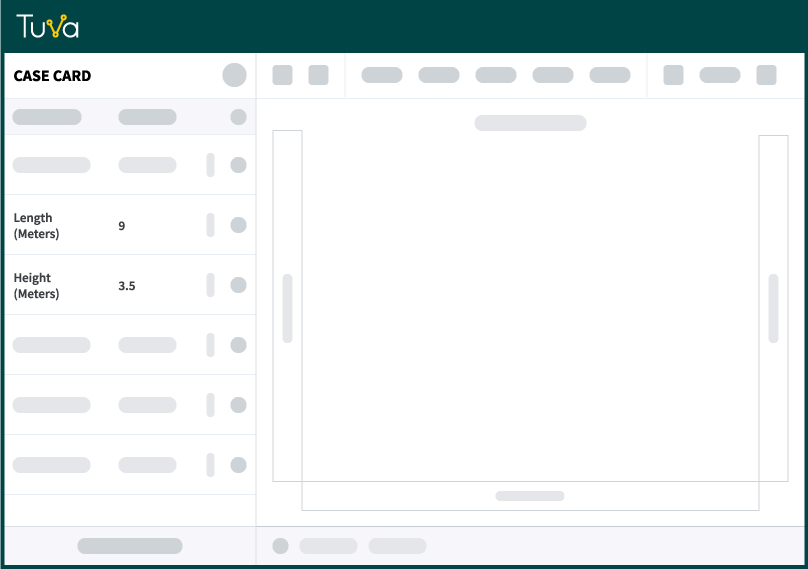
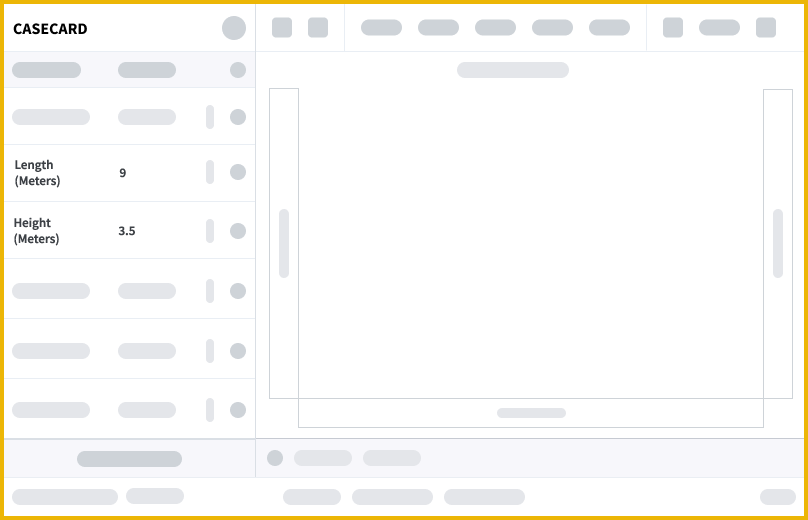
work in progress

diff --git a/landingPageAnimation/tuva-animate.js b/landingPageAnimation/tuva-animate.js
@@ -3,14 +3,17 @@ var animationIndex = 0; //used to keep track of the current animation step
 
 //background image variables
 var elem = document.getElementById("animation");
+var maxWidth = 808;
+var maxHeight = 520;
 var parentX = elem.offsetLeft;
 var parentY = elem.offsetTop;
-var parentWidth = elem.offsetWidth;
-var parentHeight = elem.offsetHeight;
+var parentWidth = maxWidth;//elem.offsetWidth;
+var parentHeight = maxHeight;//elem.offsetHeight;
+var heightToWidthRatio = maxHeight/maxWidth;
 
 //plot area variables
-var xAxisStart = 0.4*parentWidth; //bottom left corner of the plotting area
-var yAxisStart = 0.8*parentHeight; //bottom left corner of plotting area
+var xAxisStart = 325; //bottom left corner of the plotting area
+var yAxisStart = 365; //bottom left corner of plotting area
 var xAxisWidth = Math.round(parentWidth*0.5); //plot width as percentage of background image
 var yAxisHeight = Math.round(parentHeight*0.5);//plot height as percentage of background image
 var xAxisEnd = xAxisStart + xAxisWidth; //lower right corner of plotting area
@@ -39,40 +42,108 @@ function loadAnimation() {
 
   //creates the case images in a mixed up state
   for(var i = 0 ; i < datasetJSON.length ; i++){
-    myCases.push(new image(elem, i,
-      getRandomInt(xAxisWidth)+xAxisStart,
-      getRandomInt(yAxisHeight)+yAxisStart-yAxisHeight,
-      10,10,"assets/case-circle.png"));
+    myCases.push(new image(
+      elem, //parent div
+      i, //id
+      getRandomInt(xAxisWidth)+xAxisStart, //x
+      getRandomInt(yAxisHeight)+yAxisStart-yAxisHeight, //y
+      10, //width
+      10, //height
+      "assets/case-circle.png"));  //image source
   }
   
-  myHeightAttribute = new image(elem,"height-attribute",parentWidth*.006,parentHeight*.445,parentWidth*.12,parentHeight*.11,"assets/height-attribute.png");
+  //image constructor(elem, id, x , y, width , height, source)
+  myHeightAttribute = new image(
+    elem, //parent div
+    "height-attribute", //id
+    parentWidth*.0055, //x
+    parentHeight*.388, //y
+    parentWidth*.12, //width
+    parentHeight*.11, //height
+    "assets/height-attribute.png"); //image source
   myHeightAttribute.makeHidden();
-  myLengthAttribute = new image(elem,"length-attribute",parentWidth*.006,parentHeight*.34,parentWidth*.12,parentHeight*.11,"assets/length-attribute.png");
+  myLengthAttribute = new image(
+    elem,
+    "length-attribute",
+    parentWidth*.0055,
+    parentHeight*.276,
+    parentWidth*.12,
+    parentHeight*.11,
+    "assets/length-attribute.png"); //image source
   myLengthAttribute.makeHidden();
-  
-  myXAxis = new image(elem,"x-axis",parentWidth*.39,parentHeight*.82,parentWidth*.53,parentHeight*.02,"assets/x-axis.png");
-  myXAxis.makeHidden();
-  myYAxis = new image(elem,"y-axis",parentWidth*.38,parentHeight*.26,parentWidth*.015,parentHeight*.56,"assets/y-axis.png");
-  myYAxis.makeHidden();
 
-  myActiveHeightAttribute = new image(elem,"active-height-attribute",parentWidth*.006,parentHeight*.445,parentWidth*.12,parentHeight*.11,"assets/active-height-attribute.png");
+  myActiveHeightAttribute = new image(
+    elem, //parent div
+    "active-height-attribute", //id
+    parentWidth*.0055, //x
+    parentHeight*.388, //y
+    parentWidth*.12, //width
+    parentHeight*.11, //height
+    "assets/active-height-attribute.png"); //image source
   myActiveHeightAttribute.makeHidden();
-  myActiveLengthAttribute = new image(elem,"active-length-attribute",parentWidth*.006,parentHeight*.34,parentWidth*.12,parentHeight*.11,"assets/active-length-attribute.png");
+  myActiveLengthAttribute = new image(
+    elem,
+    "active-length-attribute",
+    parentWidth*.0055,
+    parentHeight*.276,
+    parentWidth*.12,
+    parentHeight*.11,
+    "assets/active-length-attribute.png");
   myActiveLengthAttribute.makeHidden();
 
-  myXAxisWithLengthAttribute = new image(elem,"x-axis-with-attribute",parentWidth*.373,parentHeight*.844,parentWidth*.57,parentHeight*.055,"assets/xaxis-length.png");
+  myXAxis = new image(
+    elem, //parent div
+    "x-axis", //id
+    xAxisStart*.98, //x
+    yAxisStart*1.05, //y
+    parentWidth*.53, //width
+    parentHeight*.02, //height
+    "assets/x-axis.png"); //image source
+  myXAxis.makeHidden();
+  myYAxis = new image(
+    elem, //parent div
+    "y-axis", //id
+    xAxisStart*.935, //x
+    yAxisEnd*.92, //y
+    parentWidth*.015, //width
+    parentHeight*.54, //height
+    "assets/y-axis.png"); //image source
+  myYAxis.makeHidden();
+
+  myXAxisWithLengthAttribute = new image(
+    elem, //parent div
+    "x-axis-with-attribute", //id
+    298, //x
+    398, //y
+    764-298, //width
+    429-398, //height
+    "assets/xaxis-length.png"); //image source
   myXAxisWithLengthAttribute.makeHidden();
-  myYAxisWithHeightAttribute = new image(elem,"y-axis-with-attribute",parentWidth*.336,parentHeight*.229,parentWidth*.039,parentHeight*.62,"assets/yaxis-height.png");
+  myYAxisWithHeightAttribute = new image(
+    elem, //parent div
+    "y-axis-with-attribute", //id
+    268, //x
+    88, //y
+    299-268, //width
+    399-88, //height
+    "assets/yaxis-height.png"); //image source
   myYAxisWithHeightAttribute.makeHidden();
 
-  myCursor = new image(elem,"cursor",parentWidth*0.5,parentHeight*0.5,20,20,"assets/cursor.png");
+  myCursor = new image(
+    elem, //parent div
+    "cursor", //id
+    parentWidth*0.5, //x
+    parentHeight*0.5, //y
+    20, //width
+    20, //height
+    "assets/cursor.png"); //image source
 
   //once images are loaded, start the animation
   animationLoop(animationIndex);
 }
 
 function animationLoop(animationIndex) {
-  console.log("animation index "+animationIndex);
+  // console.log("animation index "+animationIndex);
 
   var currentFrame = 0;
   var totalFrames = 300;
@@ -104,7 +175,11 @@ function animationLoop(animationIndex) {
       if(animationIndex == 0){
         //move cursor to length attribute
         if(currentFrame==0) {
-          myCursor.setStartEnd(parentWidth*0.5,parentHeight*0.5,myLengthAttribute.x + myLengthAttribute.w/2,myLengthAttribute.y + myLengthAttribute.h/2);
+          myCursor.setStartEnd(
+            parentWidth*0.5,
+            parentHeight*0.5,
+            myLengthAttribute.x + myLengthAttribute.w/2,
+            myLengthAttribute.y + myLengthAttribute.h/2);
         }
         myCursor.moveMe(totalFrames);
 
@@ -112,8 +187,16 @@ function animationLoop(animationIndex) {
       else if (animationIndex == 1){
         //drag length attribute to x-axis
         if(currentFrame==0) {
-          myCursor.setStartEnd(myLengthAttribute.x + myLengthAttribute.w/2,myLengthAttribute.y + myLengthAttribute.h/2,myXAxisWithLengthAttribute.x+myXAxisWithLengthAttribute.w/2,myXAxisWithLengthAttribute.y+myXAxisWithLengthAttribute.h/2);
-          myLengthAttribute.setStartEnd(myLengthAttribute.x + myLengthAttribute.w/2,myLengthAttribute.y + myLengthAttribute.h/2,myXAxisWithLengthAttribute.x+myXAxisWithLengthAttribute.w/2,myXAxisWithLengthAttribute.y+myXAxisWithLengthAttribute.h/2);
+          myCursor.setStartEnd(
+            myLengthAttribute.x + myLengthAttribute.w/2,
+            myLengthAttribute.y + myLengthAttribute.h/2,
+            myXAxisWithLengthAttribute.x+myXAxisWithLengthAttribute.w/2,
+            myXAxisWithLengthAttribute.y+myXAxisWithLengthAttribute.h/2);
+          myLengthAttribute.setStartEnd(
+            myLengthAttribute.x + myLengthAttribute.w/2,
+            myLengthAttribute.y + myLengthAttribute.h/2,
+            myXAxisWithLengthAttribute.x+myXAxisWithLengthAttribute.w/2,
+            myXAxisWithLengthAttribute.y+myXAxisWithLengthAttribute.h/2);
         }
         if(myLengthAttribute.isVisible==false) myLengthAttribute.makeVisible();
         myCursor.moveMe(totalFrames);
@@ -134,7 +217,11 @@ function animationLoop(animationIndex) {
       else if (animationIndex == 3){
         //move cursor to height attribute
         if(currentFrame==0) {
-          myCursor.setStartEnd(myXAxisWithLengthAttribute.x+myXAxisWithLengthAttribute.w/2,myXAxisWithLengthAttribute.y+myXAxisWithLengthAttribute.h/2,parentWidth*.006+ myHeightAttribute.w/2,parentHeight*.445+ myHeightAttribute.h/2);
+          myCursor.setStartEnd(
+            myXAxisWithLengthAttribute.x+myXAxisWithLengthAttribute.w/2,
+            myXAxisWithLengthAttribute.y+myXAxisWithLengthAttribute.h/2,
+            myHeightAttribute.x+ myHeightAttribute.w/2,
+            myHeightAttribute.y+ myHeightAttribute.h/2);
         }
 
         myCursor.moveMe(totalFrames);
@@ -142,8 +229,16 @@ function animationLoop(animationIndex) {
       else if (animationIndex == 4){
         //drag height attribute to y-axis
         if(currentFrame==0) {
-          myCursor.setStartEnd(parentWidth*.006+ myHeightAttribute.w/2,parentHeight*.445 + myHeightAttribute.h/2,myYAxisWithHeightAttribute.x+myYAxisWithHeightAttribute.w/2,myYAxisWithHeightAttribute.y+myYAxisWithHeightAttribute.h/2);
-          myHeightAttribute.setStartEnd(myHeightAttribute.x + myHeightAttribute.w/2,myHeightAttribute.y + myHeightAttribute.h/2,parentWidth*.35,parentHeight*.55);
+          myCursor.setStartEnd(
+            myHeightAttribute.x+ myHeightAttribute.w/2,
+            myHeightAttribute.y + myHeightAttribute.h/2,
+            myYAxisWithHeightAttribute.x+myYAxisWithHeightAttribute.w/2,
+            myYAxisWithHeightAttribute.y+myYAxisWithHeightAttribute.h/2);
+          myHeightAttribute.setStartEnd(
+            myHeightAttribute.x + myHeightAttribute.w/2,
+            myHeightAttribute.y + myHeightAttribute.h/2,
+            myYAxisWithHeightAttribute.x+myYAxisWithHeightAttribute.w/2,
+            myYAxisWithHeightAttribute.y+myYAxisWithHeightAttribute.h/2);
         }
         if(myHeightAttribute.isVisible==false) myHeightAttribute.makeVisible();
 
@@ -177,7 +272,20 @@ function animationLoop(animationIndex) {
         moveCases(totalFrames);
         myCursor.moveMe(totalFrames);
       }
-      currentFrame++; 
+      currentFrame++;
+
+      //To Do: Work on Responsiveness for the image
+      //check if we need to resize the images
+      // if(document.readyState === "complete"){
+        // console.log(elem.parentElement.style.offsetWidth);
+        // if(elem.offsetWidth!=parentWidth){
+          // console.log("Width: " + elem.offsetWidth + " Height: "+elem.offsetHeight);
+          // elem.offsetHeight=elem.offsetWidth*heightToWidthRatio+"px";
+          // parentWidth=elem.offsetWidth;
+          // parentHeight=elem.offsetHeight;
+          // updateSizes();
+        // }
+      // }
     }
   }
 }
@@ -270,10 +378,50 @@ function translate(value, leftMin, leftMax, rightMin, rightMax){
     return rightMin + (valueScaled * rightSpan)
 }
 
+//To Do: this function will handle the resizing of all images and positions to make the animation responsive
+// function updateSizes(){
+//   console.log("size changed");
+  
+//   var scale = elem.offsetWidth/maxWidth;
+//   console.log(scale);
+
+//   //update background image dimensions and store them
+//   parentX = elem.offsetLeft;
+//   parentY = elem.offsetTop;
+//   parentWidth = elem.offsetWidth;
+//   parentHeight = elem.offsetHeight;
+//   //update plot area variables
+//   xAxisStart = 325*scale; //bottom left corner of the plotting area
+//   yAxisStart = 365*scale; //bottom left corner of plotting area
+//   xAxisWidth = Math.round(parentWidth*0.5)*scale; //plot width as percentage of background image
+//   yAxisHeight = Math.round(parentHeight*0.5)*scale;//plot height as percentage of background image
+//   xAxisEnd = xAxisStart + xAxisWidth; //lower right corner of plotting area
+//   yAxisEnd = yAxisStart - yAxisHeight; //upper left corner of plotting area
+
+//   //go through each image and update their dimensions
+//   for(var i = 0 ; i < datasetJSON.length ; i++){
+//     myCases[i].scaleImageDimensionsAndPosition(scale);
+//     // if(i==0){
+//     //   console.log("X: "+myCases[i].x+" Y: "+myCases[i].y+" W: "+myCases[i].w+" H: "+myCases[i].h)
+//     // }
+//   }
+//   myCursor.scaleImageDimensionsAndPosition(scale);
+//   myHeightAttribute.scaleImageDimensionsAndPosition(scale);
+//   myLengthAttribute.scaleImageDimensionsAndPosition(scale);
+//   myYAxis.scaleImageDimensionsAndPosition(scale);
+//   myXAxis.scaleImageDimensionsAndPosition(scale);
+//   myActiveHeightAttribute.scaleImageDimensionsAndPosition(scale);
+//   myActiveLengthAttribute.scaleImageDimensionsAndPosition(scale);
+//   myYAxisWithHeightAttribute.scaleImageDimensionsAndPosition(scale);
+//   myXAxisWithLengthAttribute.scaleImageDimensionsAndPosition(scale);
+// }
+
 class image {
   constructor(elem,id,_x,_y,_w,_h,source){
     this.w = _w;
     this.h = _h;
+    this.initW = _w; //to keep track of initial width
+    this.initH = _h; //to keep track of initial height
     this.myImage = new Image(this.w,this.h);
     this.myImage.src = source;
     this.myImage.style.position = "absolute";
@@ -341,9 +489,23 @@ class image {
     this.setY(this.y0);
     this.setStartEnd(this.x0,this.y0,this.x0,this.y0);
   }
+
+  //following code is buggy. currently doesn't scale properly
+  // scaleImageDimensionsAndPosition(scale){
+  //   document.getElementById(this.myImage.id).style.width=this.initW*scale;
+  //   document.getElementById(this.myImage.id).style.height=this.initH*scale;
+  //   this.setX(this.x0*scale);
+  //   this.setY(this.y0*scale);
+  //   this.setStartEnd(
+  //     this.xStart*scale,
+  //     this.yStart*scale,
+  //     this.xEnd*scale,
+  //     this.yEnd*scale);
+  //   this.updateImgXY();
+  // }
 }
 
-//for debugging locations in the image:
+// for debugging locations in the image:
 // function printMousePos(event) {
 //   console.log(
 //     "clientX: " + event.clientX +

diff --git a/landingPageAnimation/index.html b/landingPageAnimation/index.html
@@ -7,16 +7,18 @@
   }
   
   #animation {
-    width: 800px;
-    height: 512px;
+    max-width: 808px;
+    max-height: 520px;
+    width: 100%;
+    height: 100%; 
     position: absolute;
   }
 </style>
 
-<body onload="loadAnimation()">
-  <div class="center">
-    <div id="animation">
-      <img src="assets/background.png" style="width:100%;height:100%;">
+<body onload = "loadAnimation()">
+  <div class = "center">
+    <div id = "animation">
+      <img id = "background" src = "assets/background.png">
     </div>
   </div>
 </body>
